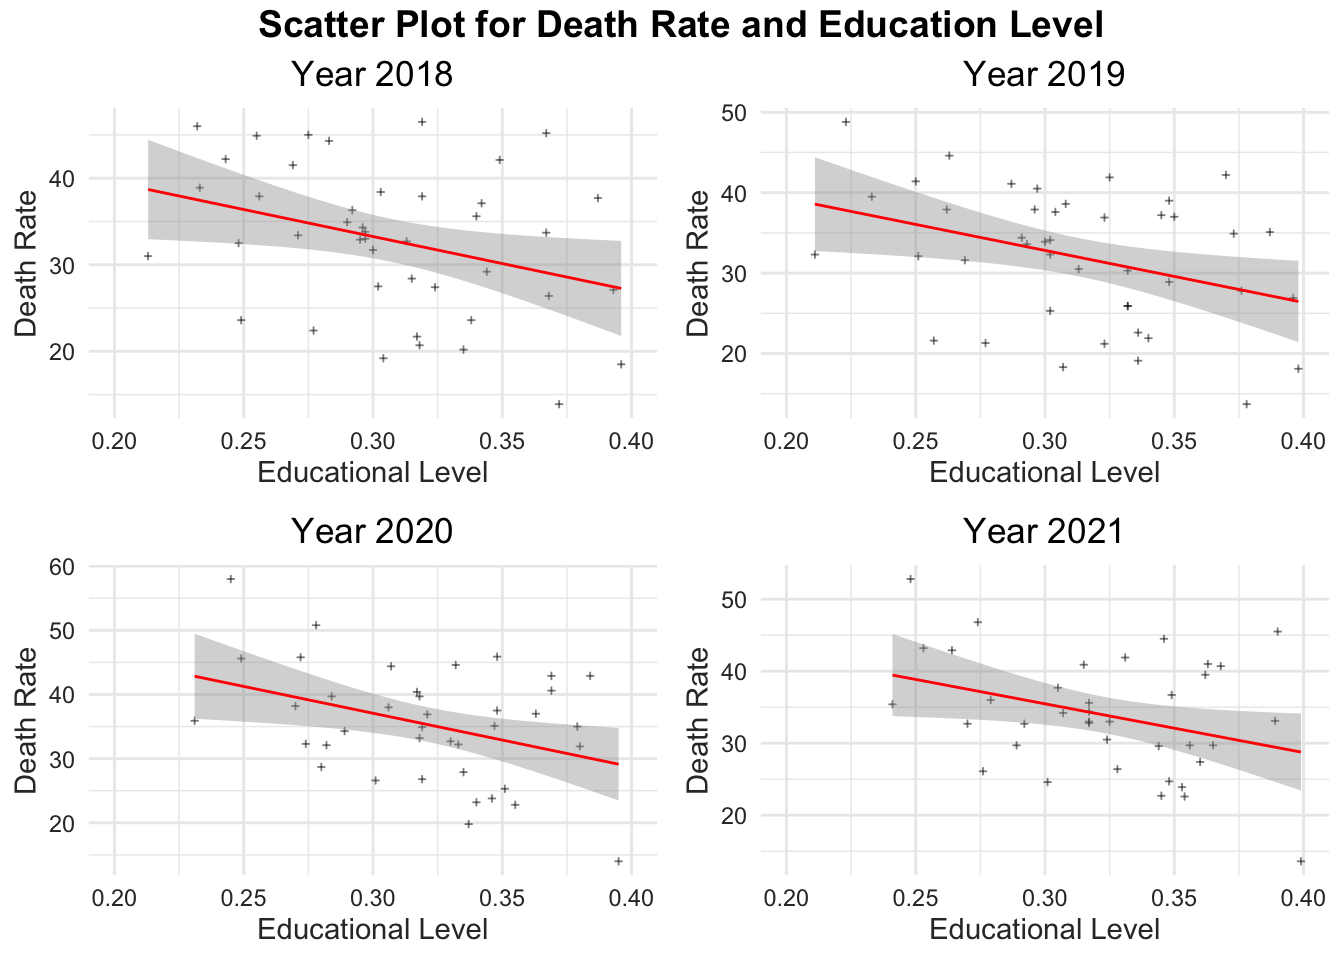
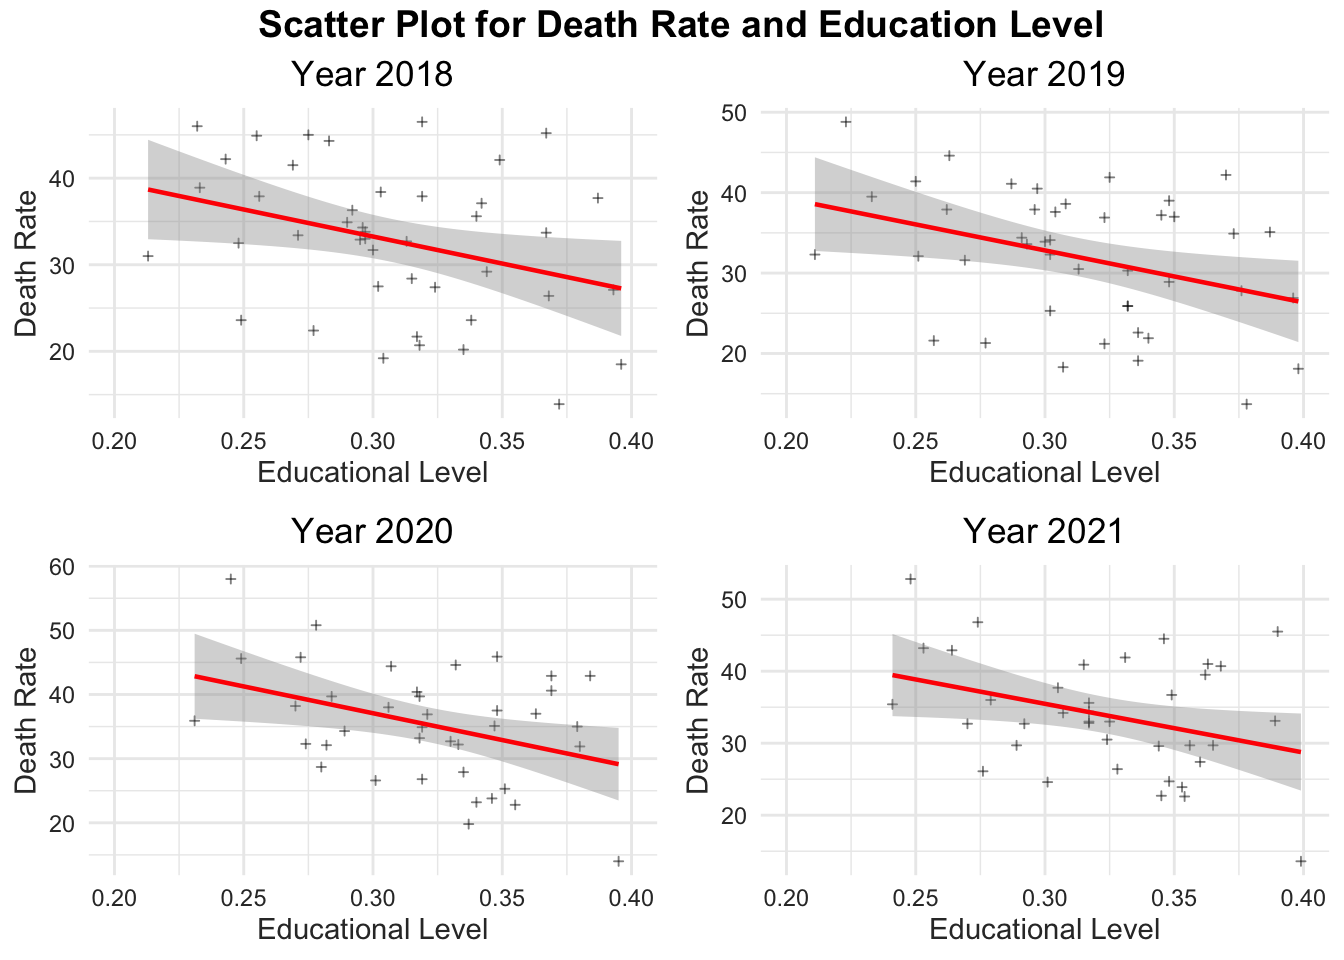
comment on correlation

diff --git a/EDA.html b/EDA.html
@@ -397,8 +397,8 @@ missing_data &lt;- data %&gt;%
   layout(title = &quot;Missing Data Visualization&quot;,
          xaxis = list(title = &quot;Variables&quot;),
          yaxis = list(title = &quot;Number of Missing Values&quot;))</code></pre>
-<div class="plotly html-widget html-fill-item-overflow-hidden html-fill-item" id="htmlwidget-125071bb243a663aa1dd" style="width:672px;height:480px;"></div>
-<script type="application/json" data-for="htmlwidget-125071bb243a663aa1dd">{"x":{"visdat":{"dd44841c128":["function () ","plotlyVisDat"]},"cur_data":"dd44841c128","attrs":{"dd44841c128":{"x":{},"y":{},"alpha_stroke":1,"sizes":[10,100],"spans":[1,20],"type":"bar"}},"layout":{"margin":{"b":40,"l":60,"t":25,"r":10},"title":"Missing Data Visualization","xaxis":{"domain":[0,1],"automargin":true,"title":"Variables","type":"category","categoryorder":"array","categoryarray":["...1","cardio_rate","death_rate","diabetes_rate","edu_level","elder_rate","employment","gdp","hc_exp","income","obesity_rate","pce","rpp","smoke_rate","state","year"]},"yaxis":{"domain":[0,1],"automargin":true,"title":"Number of Missing Values"},"hovermode":"closest","showlegend":false},"source":"A","config":{"modeBarButtonsToAdd":["hoverclosest","hovercompare"],"showSendToCloud":false},"data":[{"x":["...1","state","year","death_rate","gdp","pce","rpp","employment","hc_exp","income","edu_level","diabetes_rate","cardio_rate","smoke_rate","elder_rate","obesity_rate"],"y":[0,0,0,4,0,0,0,0,0,0,0,14,14,6,1,1],"type":"bar","marker":{"color":"rgba(31,119,180,1)","line":{"color":"rgba(31,119,180,1)"}},"error_y":{"color":"rgba(31,119,180,1)"},"error_x":{"color":"rgba(31,119,180,1)"},"xaxis":"x","yaxis":"y","frame":null}],"highlight":{"on":"plotly_click","persistent":false,"dynamic":false,"selectize":false,"opacityDim":0.20000000000000001,"selected":{"opacity":1},"debounce":0},"shinyEvents":["plotly_hover","plotly_click","plotly_selected","plotly_relayout","plotly_brushed","plotly_brushing","plotly_clickannotation","plotly_doubleclick","plotly_deselect","plotly_afterplot","plotly_sunburstclick"],"base_url":"https://plot.ly"},"evals":[],"jsHooks":[]}</script>
+<div class="plotly html-widget html-fill-item-overflow-hidden html-fill-item" id="htmlwidget-256ecc2922b823ae72e4" style="width:672px;height:480px;"></div>
+<script type="application/json" data-for="htmlwidget-256ecc2922b823ae72e4">{"x":{"visdat":{"f2b167813fb":["function () ","plotlyVisDat"]},"cur_data":"f2b167813fb","attrs":{"f2b167813fb":{"x":{},"y":{},"alpha_stroke":1,"sizes":[10,100],"spans":[1,20],"type":"bar"}},"layout":{"margin":{"b":40,"l":60,"t":25,"r":10},"title":"Missing Data Visualization","xaxis":{"domain":[0,1],"automargin":true,"title":"Variables","type":"category","categoryorder":"array","categoryarray":["...1","cardio_rate","death_rate","diabetes_rate","edu_level","elder_rate","employment","gdp","hc_exp","income","obesity_rate","pce","rpp","smoke_rate","state","year"]},"yaxis":{"domain":[0,1],"automargin":true,"title":"Number of Missing Values"},"hovermode":"closest","showlegend":false},"source":"A","config":{"modeBarButtonsToAdd":["hoverclosest","hovercompare"],"showSendToCloud":false},"data":[{"x":["...1","state","year","death_rate","gdp","pce","rpp","employment","hc_exp","income","edu_level","diabetes_rate","cardio_rate","smoke_rate","elder_rate","obesity_rate"],"y":[0,0,0,4,0,0,0,0,0,0,0,14,14,6,1,1],"type":"bar","marker":{"color":"rgba(31,119,180,1)","line":{"color":"rgba(31,119,180,1)"}},"error_y":{"color":"rgba(31,119,180,1)"},"error_x":{"color":"rgba(31,119,180,1)"},"xaxis":"x","yaxis":"y","frame":null}],"highlight":{"on":"plotly_click","persistent":false,"dynamic":false,"selectize":false,"opacityDim":0.20000000000000001,"selected":{"opacity":1},"debounce":0},"shinyEvents":["plotly_hover","plotly_click","plotly_selected","plotly_relayout","plotly_brushed","plotly_brushing","plotly_clickannotation","plotly_doubleclick","plotly_deselect","plotly_afterplot","plotly_sunburstclick"],"base_url":"https://plot.ly"},"evals":[],"jsHooks":[]}</script>
 </div>
 <div id="part-ii-missing-value-analysis" class="section level2">
 <h2>Part II Missing Value Analysis</h2>
@@ -422,8 +422,8 @@ library(plotly)
 plot_ly(data, x = ~death_rate, type = &quot;histogram&quot;, nbinsx = 30) %&gt;%
   layout(title = &quot;Histogram of Death Rate&quot;)</code></pre>
 <pre><code>## Warning: Ignoring 4 observations</code></pre>
-<div class="plotly html-widget html-fill-item-overflow-hidden html-fill-item" id="htmlwidget-02fd4524756779792583" style="width:672px;height:480px;"></div>
-<script type="application/json" data-for="htmlwidget-02fd4524756779792583">{"x":{"visdat":{"dd46c9b0e01":["function () ","plotlyVisDat"]},"cur_data":"dd46c9b0e01","attrs":{"dd46c9b0e01":{"x":{},"nbinsx":30,"alpha_stroke":1,"sizes":[10,100],"spans":[1,20],"type":"histogram"}},"layout":{"margin":{"b":40,"l":60,"t":25,"r":10},"title":"Histogram of Death Rate","xaxis":{"domain":[0,1],"automargin":true,"title":"death_rate"},"yaxis":{"domain":[0,1],"automargin":true},"hovermode":"closest","showlegend":false},"source":"A","config":{"modeBarButtonsToAdd":["hoverclosest","hovercompare"],"showSendToCloud":false},"data":[{"x":[44.899999999999999,44.600000000000001,50.799999999999997,46.799999999999997,27.5,25.300000000000001,26.800000000000001,26.399999999999999,33,32.299999999999997,32.700000000000003,30.5,38.899999999999999,39.5,45.600000000000001,43.200000000000003,37.100000000000001,37,40.600000000000001,39.5,29.600000000000001,33.399999999999999,36.899999999999999,32.600000000000001,18.5,18.100000000000001,20.300000000000001,21.199999999999999,32.700000000000003,25.899999999999999,35.100000000000001,29.699999999999999,19.199999999999999,18.300000000000001,19.800000000000001,19.600000000000001,46.5,41.899999999999999,45.899999999999999,44.5,20.199999999999999,19.100000000000001,22.800000000000001,23.899999999999999,35,33.200000000000003,36.700000000000003,40.5,25.300000000000001,24.5,28.699999999999999,26.600000000000001,33.399999999999999,31.600000000000001,34.299999999999997,29.699999999999999,31.699999999999999,29.199999999999999,31.899999999999999,28.199999999999999,23.600000000000001,21.899999999999999,25.300000000000001,22.600000000000001,32.5,32.100000000000001,32.299999999999997,32.700000000000003,42.200000000000003,41.399999999999999,45.799999999999997,42.899999999999999,28.399999999999999,25.899999999999999,27.899999999999999,27.399999999999999,15.800000000000001,13.800000000000001,15.800000000000001,16.100000000000001,19.5,17.699999999999999,18.600000000000001,17.699999999999999,34.299999999999997,33.899999999999999,36.899999999999999,34.399999999999999,33.700000000000003,34.899999999999999,35,33.100000000000001,46,48.799999999999997,58,52.799999999999997,32.899999999999999,34.100000000000001,34.899999999999999,33,21.699999999999999,22.600000000000001,23.800000000000001,24.699999999999999,27.399999999999999,30.300000000000001,32.200000000000003,29.600000000000001,23.600000000000001,21.600000000000001,28.699999999999999,26.100000000000001,26.399999999999999,27.800000000000001,26.100000000000001,23.5,22.699999999999999,21.699999999999999,22.100000000000001,20.600000000000001,22.399999999999999,21.300000000000001,26.600000000000001,24.600000000000001,13.9,13.699999999999999,14,13.6,37.899999999999999,36.899999999999999,37.5,36.700000000000003,33.799999999999997,37.600000000000001,39.700000000000003,32.799999999999997,34.899999999999999,33.600000000000001,38,34.200000000000003,37.899999999999999,37.899999999999999,38.200000000000003,36,35.600000000000001,37.200000000000003,37,41,20.699999999999999,21.199999999999999,23.199999999999999,22.699999999999999,29.199999999999999,28.899999999999999,31.899999999999999,29.699999999999999,44.299999999999997,37.899999999999999,40.399999999999999,40.899999999999999,36.299999999999997,40.5,39.700000000000003,35.600000000000001,45,41.100000000000001,44.399999999999999,37.700000000000003,38.399999999999999,38.600000000000001,44.600000000000001,41.899999999999999,42.100000000000001,39,42.899999999999999,40.700000000000003,37.700000000000003,35.100000000000001,31,38.799999999999997,27.100000000000001,26.899999999999999,28.699999999999999,27.5,45.200000000000003,42.200000000000003,42.899999999999999,45.5,31,32.299999999999997,35.899999999999999,35.399999999999999,31.699999999999999,30.5,33.200000000000003,33,41.5,34.399999999999999,32.100000000000001,32.700000000000003],"nbinsx":30,"type":"histogram","marker":{"color":"rgba(31,119,180,1)","line":{"color":"rgba(31,119,180,1)"}},"error_y":{"color":"rgba(31,119,180,1)"},"error_x":{"color":"rgba(31,119,180,1)"},"xaxis":"x","yaxis":"y","frame":null}],"highlight":{"on":"plotly_click","persistent":false,"dynamic":false,"selectize":false,"opacityDim":0.20000000000000001,"selected":{"opacity":1},"debounce":0},"shinyEvents":["plotly_hover","plotly_click","plotly_selected","plotly_relayout","plotly_brushed","plotly_brushing","plotly_clickannotation","plotly_doubleclick","plotly_deselect","plotly_afterplot","plotly_sunburstclick"],"base_url":"https://plot.ly"},"evals":[],"jsHooks":[]}</script>
+<div class="plotly html-widget html-fill-item-overflow-hidden html-fill-item" id="htmlwidget-de5458a33fa6618a0458" style="width:672px;height:480px;"></div>
+<script type="application/json" data-for="htmlwidget-de5458a33fa6618a0458">{"x":{"visdat":{"f2b42584ae4":["function () ","plotlyVisDat"]},"cur_data":"f2b42584ae4","attrs":{"f2b42584ae4":{"x":{},"nbinsx":30,"alpha_stroke":1,"sizes":[10,100],"spans":[1,20],"type":"histogram"}},"layout":{"margin":{"b":40,"l":60,"t":25,"r":10},"title":"Histogram of Death Rate","xaxis":{"domain":[0,1],"automargin":true,"title":"death_rate"},"yaxis":{"domain":[0,1],"automargin":true},"hovermode":"closest","showlegend":false},"source":"A","config":{"modeBarButtonsToAdd":["hoverclosest","hovercompare"],"showSendToCloud":false},"data":[{"x":[44.899999999999999,44.600000000000001,50.799999999999997,46.799999999999997,27.5,25.300000000000001,26.800000000000001,26.399999999999999,33,32.299999999999997,32.700000000000003,30.5,38.899999999999999,39.5,45.600000000000001,43.200000000000003,37.100000000000001,37,40.600000000000001,39.5,29.600000000000001,33.399999999999999,36.899999999999999,32.600000000000001,18.5,18.100000000000001,20.300000000000001,21.199999999999999,32.700000000000003,25.899999999999999,35.100000000000001,29.699999999999999,19.199999999999999,18.300000000000001,19.800000000000001,19.600000000000001,46.5,41.899999999999999,45.899999999999999,44.5,20.199999999999999,19.100000000000001,22.800000000000001,23.899999999999999,35,33.200000000000003,36.700000000000003,40.5,25.300000000000001,24.5,28.699999999999999,26.600000000000001,33.399999999999999,31.600000000000001,34.299999999999997,29.699999999999999,31.699999999999999,29.199999999999999,31.899999999999999,28.199999999999999,23.600000000000001,21.899999999999999,25.300000000000001,22.600000000000001,32.5,32.100000000000001,32.299999999999997,32.700000000000003,42.200000000000003,41.399999999999999,45.799999999999997,42.899999999999999,28.399999999999999,25.899999999999999,27.899999999999999,27.399999999999999,15.800000000000001,13.800000000000001,15.800000000000001,16.100000000000001,19.5,17.699999999999999,18.600000000000001,17.699999999999999,34.299999999999997,33.899999999999999,36.899999999999999,34.399999999999999,33.700000000000003,34.899999999999999,35,33.100000000000001,46,48.799999999999997,58,52.799999999999997,32.899999999999999,34.100000000000001,34.899999999999999,33,21.699999999999999,22.600000000000001,23.800000000000001,24.699999999999999,27.399999999999999,30.300000000000001,32.200000000000003,29.600000000000001,23.600000000000001,21.600000000000001,28.699999999999999,26.100000000000001,26.399999999999999,27.800000000000001,26.100000000000001,23.5,22.699999999999999,21.699999999999999,22.100000000000001,20.600000000000001,22.399999999999999,21.300000000000001,26.600000000000001,24.600000000000001,13.9,13.699999999999999,14,13.6,37.899999999999999,36.899999999999999,37.5,36.700000000000003,33.799999999999997,37.600000000000001,39.700000000000003,32.799999999999997,34.899999999999999,33.600000000000001,38,34.200000000000003,37.899999999999999,37.899999999999999,38.200000000000003,36,35.600000000000001,37.200000000000003,37,41,20.699999999999999,21.199999999999999,23.199999999999999,22.699999999999999,29.199999999999999,28.899999999999999,31.899999999999999,29.699999999999999,44.299999999999997,37.899999999999999,40.399999999999999,40.899999999999999,36.299999999999997,40.5,39.700000000000003,35.600000000000001,45,41.100000000000001,44.399999999999999,37.700000000000003,38.399999999999999,38.600000000000001,44.600000000000001,41.899999999999999,42.100000000000001,39,42.899999999999999,40.700000000000003,37.700000000000003,35.100000000000001,31,38.799999999999997,27.100000000000001,26.899999999999999,28.699999999999999,27.5,45.200000000000003,42.200000000000003,42.899999999999999,45.5,31,32.299999999999997,35.899999999999999,35.399999999999999,31.699999999999999,30.5,33.200000000000003,33,41.5,34.399999999999999,32.100000000000001,32.700000000000003],"nbinsx":30,"type":"histogram","marker":{"color":"rgba(31,119,180,1)","line":{"color":"rgba(31,119,180,1)"}},"error_y":{"color":"rgba(31,119,180,1)"},"error_x":{"color":"rgba(31,119,180,1)"},"xaxis":"x","yaxis":"y","frame":null}],"highlight":{"on":"plotly_click","persistent":false,"dynamic":false,"selectize":false,"opacityDim":0.20000000000000001,"selected":{"opacity":1},"debounce":0},"shinyEvents":["plotly_hover","plotly_click","plotly_selected","plotly_relayout","plotly_brushed","plotly_brushing","plotly_clickannotation","plotly_doubleclick","plotly_deselect","plotly_afterplot","plotly_sunburstclick"],"base_url":"https://plot.ly"},"evals":[],"jsHooks":[]}</script>
 <p>Since our goal is to create a model to predict the death rate, we
 separately examine the distribution of predictor variables. As shown in
 the above chart, the distribution of death rate exhibits a slight right
@@ -491,14 +491,14 @@ for (i in 2018:2021) {
     myplots[[i-2017]] &lt;- data %&gt;%
       filter(year == i) %&gt;%
       ggplot(aes(x = edu_level, y = death_rate)) +
-      geom_point(alpha = 0.5, size = 0.5, shape = 3) +
-      geom_smooth(method = &#39;lm&#39;, se = TRUE, color = &#39;red&#39;, size = 0.5) +
+      geom_point(alpha = 0.5, size = 0.8, shape = 3) +
+      geom_smooth(method = &#39;lm&#39;, se = TRUE, color = &#39;red&#39;, size = 0.8) +
       labs(title = sprintf(&quot;Year %s&quot;, i)) +
       xlab(&quot;Educational Level&quot;) +
       ylab(&quot;Death Rate&quot;) +
       scale_x_continuous(limits = c(0.2, 0.4)) +
-      theme_minimal() +  # 使用简洁的主题
-      theme( # 自定义一些元素
+      theme_minimal() + 
+      theme( 
         plot.title = element_text(hjust = 0.5),
         axis.text = element_text(color = &quot;grey20&quot;),
         axis.title = element_text(color = &quot;grey20&quot;)
@@ -534,6 +534,9 @@ for (i in 2018:2021) {
 
 plot_grid(title, plot_row1, plot_row2, ncol = 1, rel_heights = c(0.1, 1, 1))</code></pre>
 <p><img src="EDA_files/figure-html/unnamed-chunk-7-1.png" width="672" /></p>
+<p>As shown in the graph, a higher level of education correlates with a
+lower death rate. However, the points are quite scattered, and a linear
+trend might not fit well. There may be a non-linear trend present.</p>
 <pre class="r"><code># income
 
 myplots &lt;- vector(&#39;list&#39;, 4)
@@ -583,6 +586,7 @@ for (i in 2018:2021) {
       labs(title = sprintf(&quot;Year %s&quot;, i)) +
       xlab(&quot;Employment&quot;) + 
       ylab(&quot;Death Rate&quot;) +
+      scale_x_continuous(limits = c(500000, 800000)) +
       theme_minimal() +
       theme(
         plot.title = element_text(hjust = 0.5),
@@ -592,11 +596,19 @@ for (i in 2018:2021) {
 }
 
 plot_row1 &lt;- plot_grid(myplots[[1]], myplots[[2]], align = &#39;v&#39;)</code></pre>
-<pre><code>## `geom_smooth()` using formula = &#39;y ~ x&#39;
-## `geom_smooth()` using formula = &#39;y ~ x&#39;</code></pre>
+<pre><code>## `geom_smooth()` using formula = &#39;y ~ x&#39;</code></pre>
+<pre><code>## Warning: Removed 1 rows containing non-finite values (`stat_smooth()`).</code></pre>
+<pre><code>## Warning: Removed 1 rows containing missing values (`geom_point()`).</code></pre>
+<pre><code>## `geom_smooth()` using formula = &#39;y ~ x&#39;</code></pre>
+<pre><code>## Warning: Removed 1 rows containing non-finite values (`stat_smooth()`).
+## Removed 1 rows containing missing values (`geom_point()`).</code></pre>
 <pre class="r"><code>plot_row2 &lt;- plot_grid(myplots[[3]], myplots[[4]], align = &#39;v&#39;)</code></pre>
-<pre><code>## `geom_smooth()` using formula = &#39;y ~ x&#39;
-## `geom_smooth()` using formula = &#39;y ~ x&#39;</code></pre>
+<pre><code>## `geom_smooth()` using formula = &#39;y ~ x&#39;</code></pre>
+<pre><code>## Warning: Removed 1 rows containing non-finite values (`stat_smooth()`).
+## Removed 1 rows containing missing values (`geom_point()`).</code></pre>
+<pre><code>## `geom_smooth()` using formula = &#39;y ~ x&#39;</code></pre>
+<pre><code>## Warning: Removed 1 rows containing non-finite values (`stat_smooth()`).
+## Removed 1 rows containing missing values (`geom_point()`).</code></pre>
 <pre class="r"><code>title &lt;- ggdraw() +
   draw_label(
     &quot;Scatter Plot for Death Rate and Employment&quot;, 
@@ -645,6 +657,9 @@ plot_row1 &lt;- plot_grid(myplots[[1]], myplots[[2]], align = &#39;v&#39;)</code
 
 plot_grid(title, plot_row1, plot_row2, ncol = 1, rel_heights = c(0.1, 1, 1))</code></pre>
 <p><img src="EDA_files/figure-html/unnamed-chunk-10-1.png" width="672" /></p>
+<p>Income, employment, and particularly spending on health, all show a
+more or less positive correlation trend, but a linear relationship seems
+unable to fully explain it.</p>
 <pre class="r"><code># elder_rate
 
 myplots &lt;- vector(&#39;list&#39;, 4)
@@ -682,6 +697,11 @@ plot_row1 &lt;- plot_grid(myplots[[1]], myplots[[2]], align = &#39;v&#39;)</code
 
  plot_grid(title, plot_row1, plot_row2, ncol = 1, rel_heights = c(0.1, 1, 1))</code></pre>
 <p><img src="EDA_files/figure-html/unnamed-chunk-11-1.png" width="672" /></p>
+<p>The proportion of the population over 65 years old is negatively
+correlated with the death rate. We infer that a higher proportion of the
+population over 65 indicates a more advanced level of medical care in
+that state, thus resulting in a smaller proportion of deaths from
+Alzheimer’s disease.</p>
 <pre class="r"><code># smoke_rate
 
 myplots &lt;- vector(&#39;list&#39;, 4)
@@ -756,6 +776,8 @@ plot_row1 &lt;- plot_grid(myplots[[1]], myplots[[2]], align = &#39;v&#39;)</code
 
 plot_grid(title, plot_row1, plot_row2, ncol = 1, rel_heights = c(0.1, 1, 1))</code></pre>
 <p><img src="EDA_files/figure-html/unnamed-chunk-13-1.png" width="672" /></p>
+<p>The proportion of smokers and the rate of heart disease are
+positively correlated with the death rate.</p>
 </div>
 </div>
 
